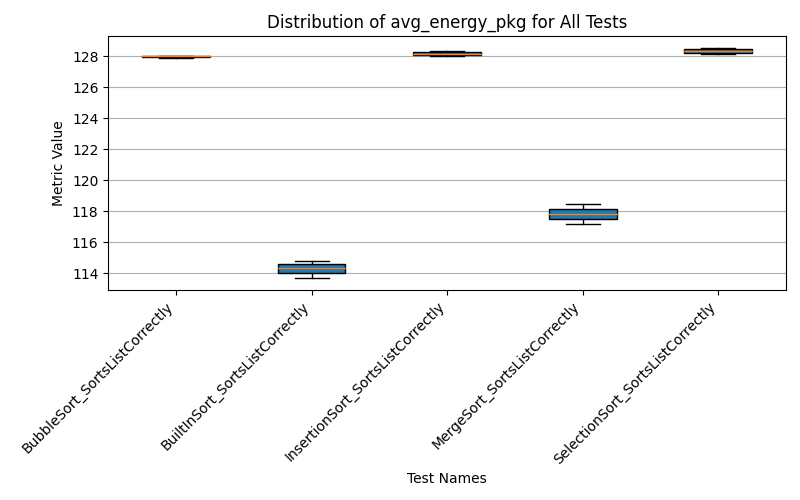
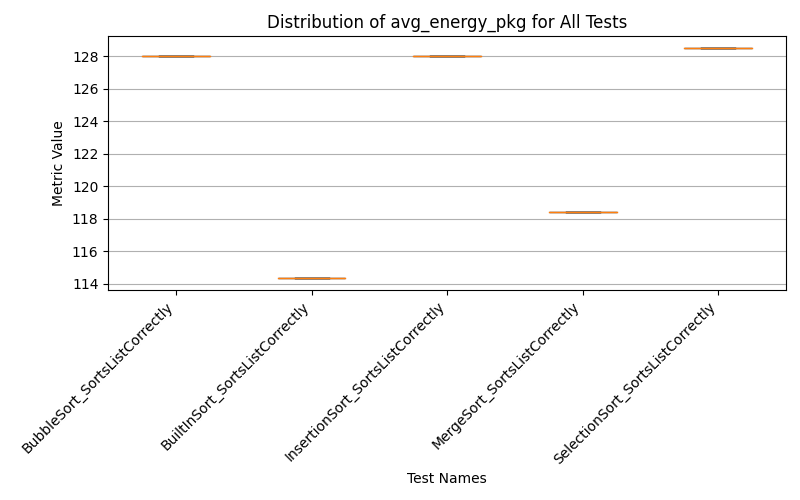
new boxplots

diff --git a/CpuIntensiveApp/Plot-Data/plot_results_4_metric_boxplot.py b/CpuIntensiveApp/Plot-Data/plot_results_4_metric_boxplot.py
@@ -55,7 +55,7 @@ else:
 
     # Adjust figure size for compactness
     plt.figure(figsize=(8, 5))  # Reduced dimensions for a compact view
-    plt.boxplot(boxplot_data, vert=True, patch_artist=True, labels=df['test_name'].unique(), widths=0.5)
+    plt.boxplot(boxplot_data, vert=True, patch_artist=True, labels=df['test_name'].unique())
 
     # Adding labels and title
     plt.xlabel('Test Names')
